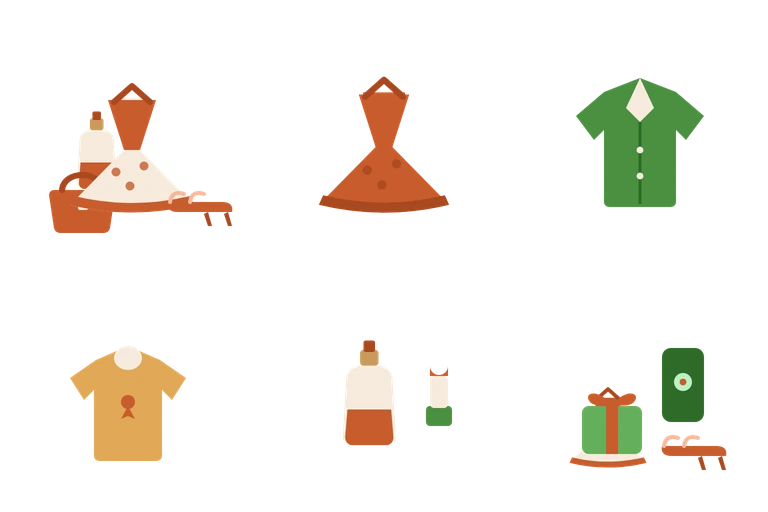
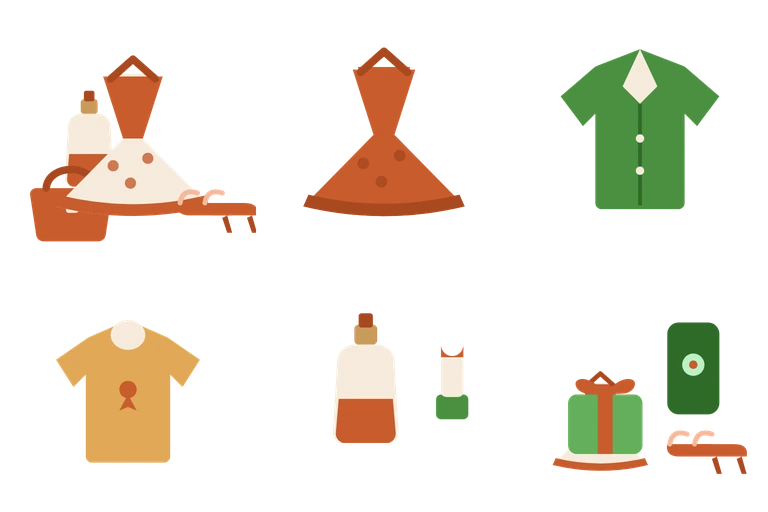
mise à niveau catégorie Desktop

diff --git a/public/boutique/css/category-cutout-navigation-desktop.css b/public/boutique/css/category-cutout-navigation-desktop.css
@@ -396,3 +396,39 @@
     flex: 0 0 104px;
   }
 }
+
+/* ══════════════════════════════════════════════════════════════════
+   FIX pavés gris desktop : neutraliser l'ancien design "carte premium"
+   pour les univers détourés (.k-cat-cutout). Scoped fort pour battre
+   les règles legacy .k-chip::after / .k-chip-photo svg / label premium.
+   Owner : category-cutout-navigation-desktop.css
+   ══════════════════════════════════════════════════════════════════ */
+@media (min-width: 900px) {
+  html.k-home-premium-v1 .k-shelf-rail .k-cat-cutout::after,
+  .k-shelf-rail .k-cat-cutout::after { content: none; display: none; }
+
+  html.k-home-premium-v1 .k-shelf-rail .k-cat-cutout,
+  .k-shelf-rail .k-cat-cutout { background: transparent; border: 0; box-shadow: none; }
+
+  /* objet détouré = pleine taille du slot (bat .k-chip-photo svg{15px}) */
+  html.k-home-premium-v1 .k-shelf-rail .k-shelf-object-slot .k-shelf-object,
+  .k-shelf-rail .k-shelf-object-slot .k-shelf-object { width: 100%; height: 100%; }
+
+  /* label SOUS l'objet, discret (bat le label premium absolu/blanc) */
+  html.k-home-premium-v1 .k-shelf-rail .k-cat-cutout .k-chip-label,
+  .k-shelf-rail .k-cat-cutout .k-chip-label {
+    position: relative; inset: auto;
+    padding: 0 2px 5px; margin: 0;
+    color: var(--text-muted); font-size: 11px; font-weight: 600;
+    text-align: center; text-shadow: none;
+  }
+  html.k-home-premium-v1 .k-shelf-rail .k-cat-cutout.active .k-chip-label,
+  .k-shelf-rail .k-cat-cutout.active .k-chip-label { color: var(--text); font-weight: 800; }
+
+  /* état actif : aucune bordure/ombre de carte */
+  html.k-home-premium-v1 .k-shelf-rail .k-cat-cutout.active,
+  .k-shelf-rail .k-cat-cutout.active { border: 0; box-shadow: none; transform: none; }
+
+  /* pas de filtre premium sur l'image atlas */
+  html.k-home-premium-v1 .k-shelf-rail .k-chip-photo img { filter: none; }
+}

diff --git a/public/boutique/js/render/category-shelf-visuals.js b/public/boutique/js/render/category-shelf-visuals.js
@@ -71,7 +71,7 @@ function renderAtlasCell(visual, extraClass = '') {
   const cls = extraClass ? ` ${extraClass}` : '';
   const x = -(col * 256);
   const y = -(row * 256);
-  return `<svg class="k-shelf-object${cls} k-shelf-object--image" viewBox="0 0 256 256" aria-hidden="true" focusable="false"><image href="${KOMERCE_MODE_PILOT_ATLAS}" x="${x}" y="${y}" width="768" height="512" preserveAspectRatio="xMidYMid meet"></image></svg>`;
+  return `<svg class="k-shelf-object${cls} k-shelf-object--image" viewBox="0 0 256 256" aria-hidden="true" focusable="false"><image href="${KOMERCE_MODE_PILOT_ATLAS}" x="${x}" y="${y}" width="768" height="512" preserveAspectRatio="none"></image></svg>`;
 }
 
 export function getShelfCategoryVisual(categoryKey) {

diff --git a/public/boutique/css/category-cutout-navigation.css b/public/boutique/css/category-cutout-navigation.css
@@ -165,3 +165,6 @@
     box-shadow: none;
   }
 }
+
+/* Atlas = sprite sheet : le viewport SVG doit clipper la cellule (sinon les autres cellules débordent). */
+.k-shelf-object--image { overflow: hidden; }
